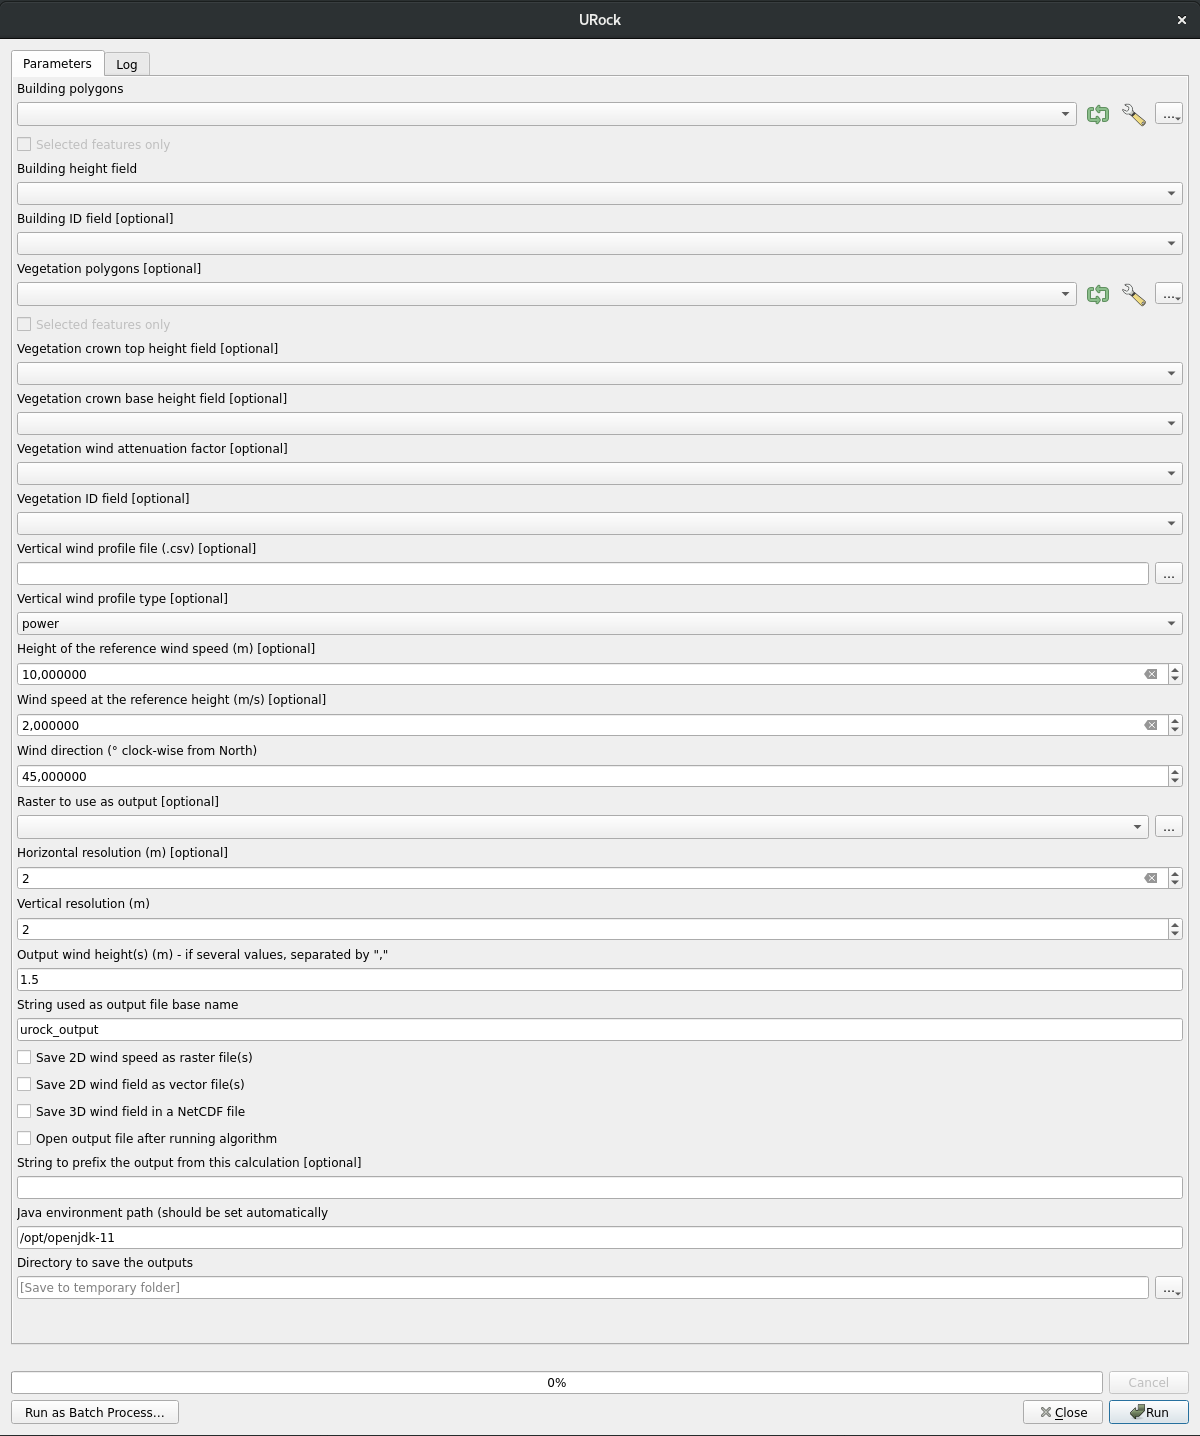
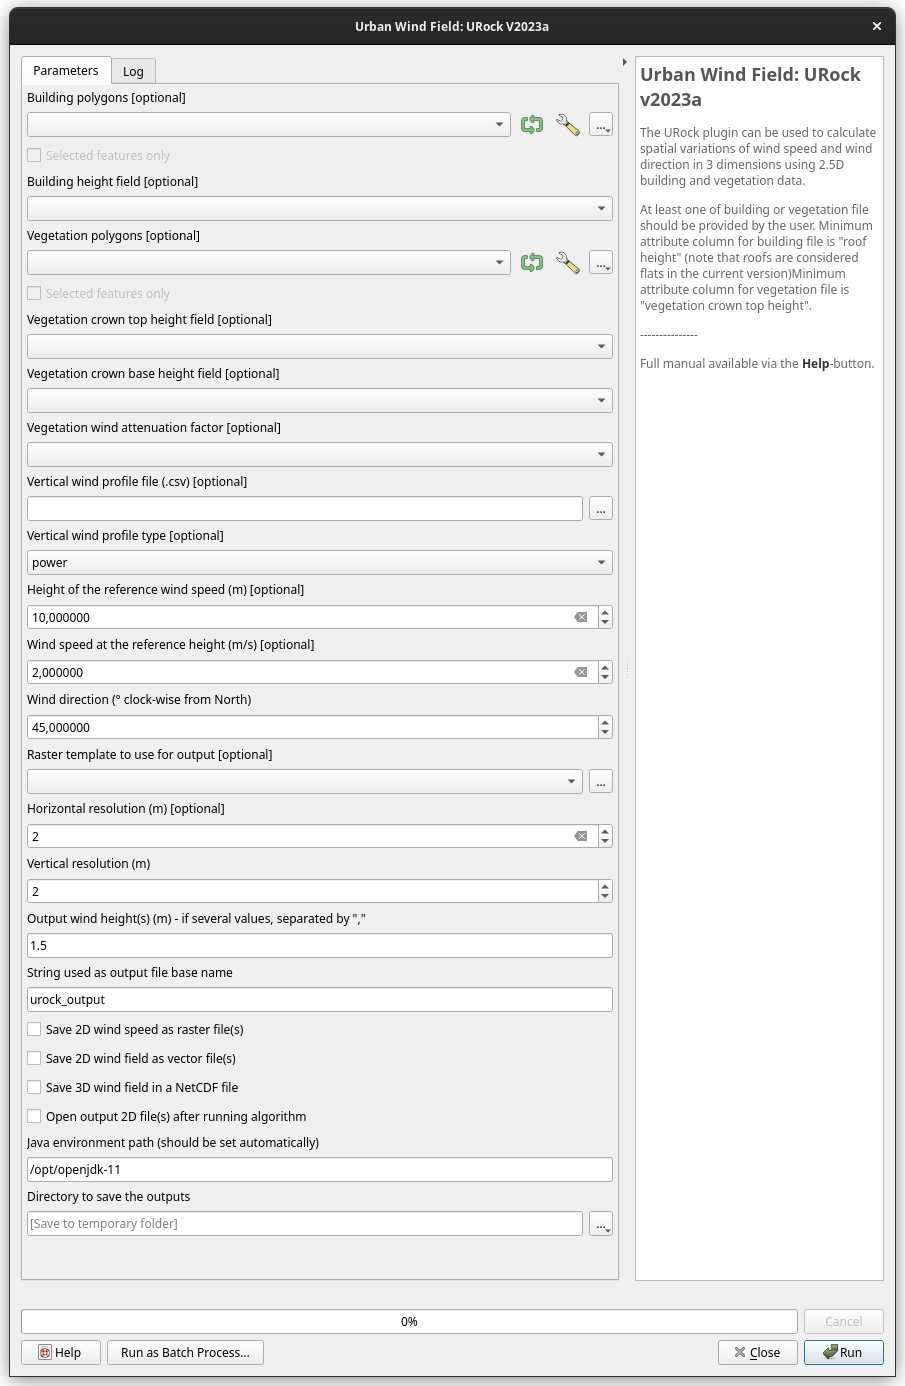
Update doc with new figures for URock and slightly modify text

Changed region(s): [[0.0, 0.0, 1.0, 1.0], [0.6807, 0.8066, 0.7116, 0.8377]]

diff --git a/docs/source/processor/Wind model URock.rst b/docs/source/processor/Wind model URock.rst
@@ -38,8 +38,6 @@ Urban Wind Fields: URock
         - Spatial input data containing buildings as 2.5D vector data
       * - Building height field
         - Name of the attribute used to store building height (considered as flat roof)
-      * - Building ID field (optional)
-        - Name of the attribute used to store building ID
       * - Vegetation polygons (optional)
         - Spatial input data containing buildings as 2.5D vector data
       * - Vegetation crown top height (optional)
@@ -48,8 +46,6 @@ Urban Wind Fields: URock
         - Name of the attribute used to store the height of the bottom of the vegetation crown (the default is set to 25% of the crown top height)
       * - Vegetation wind attenuation factor (optional)
         - Name of the attribute used to store the vegetation factor attenuation (the default is set to 1.00 - Larch plantation - for more values refer to Cionco et al. (1978))
-      * - Vegetation ID field (optional)
-        - Name of the attribute used to store vegetation ID
       * - Vertical wind profile file (.csv) (optional)
         - Text file containing the vertical wind profile. It consists in two columns and no header: 1st column contain measurement height (m), 2nd column the corresponding wind speed (m/s)
       * - Vertical wind profile type (optional)
@@ -76,8 +72,6 @@ Urban Wind Fields: URock
         - For each height specified in 'Output wind height', the horizontal variation of the wind field is saved in a vector file
       * - Save 2D wind speed in a NetCDF file
         - Save the URock output in a NetCDF file split into two groups containing: (i) 3D wind field for the whole domain, (ii) the vertical wind speed profile used as input
-      * - String to prefix the output 
-        - Save the URock output in a NetCDF file split into two groups containing: (i) 3D wind field for the whole domain, (ii) the vertical wind speed profile used as input
       * - Java environment path (should be set automatically)
         - Java is used for some calculation and Python needs to know what is the Java environment path on your computer (a default value should be identified automatically)
       * - Directory to save the outputs
@@ -86,7 +80,7 @@ Urban Wind Fields: URock
 * Quick example on how to run URock
              #. Download the (`Göteborg test dataset <https://urban-meteorology-reading.github.io>`__).
              #. Add the raster layers (DEM, DSM, and CDSM) and the building vector (buildings.shp) from the Goteborg folder into a new QGIS session. The coordinate system of the rasters is **Sweref99 1200 (EPSG:3007)**. Please verify that it is the case. If not, save it with this coordinate system.
-             #. In order to run URock, some additional datasets must be created based on the raster grids and vector layer you just added. Open the 'GenBuildVegVlayers' from the UMEP Pre-processor and create building and / or vegetation vectors using DEM, DSM and buildings vector for buildings and CDSM for vegetation. Leave all other settings as default. Two layers should be created at the end of this preprocess: 'Building with height' and 'Vegetation with height'.
+             #. In order to run URock, some additional datasets must be created based on the raster grids and vector layer you just added. Open the 'URock Prepare' module from the UMEP Pre-processor and create building and / or vegetation vectors using DEM, DSM and buildings vector for buildings and CDSM for vegetation. Leave all other settings as default. Two layers should be created at the end of this preprocess: 'Building with height' and 'Vegetation with height'.
              #. Now you are ready to generate your first wind maps. Open URock and use the settings as shown in the figure below but replace the paths to fit your computer environment (Java environment path should be set automatically, do not modify this one). When you are finished, press *Run*.
 
 .. figure:: /images/URockfirsttry.png
